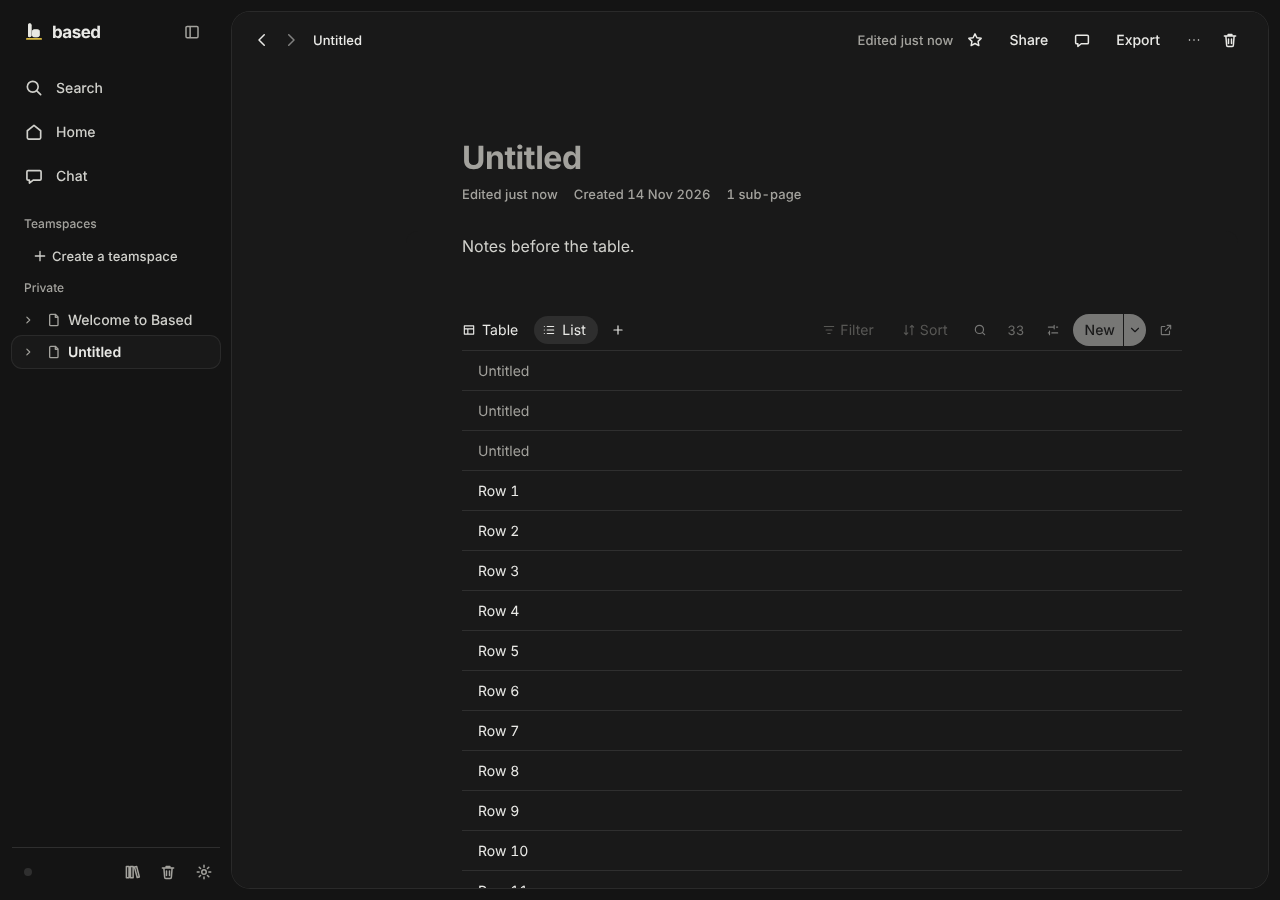
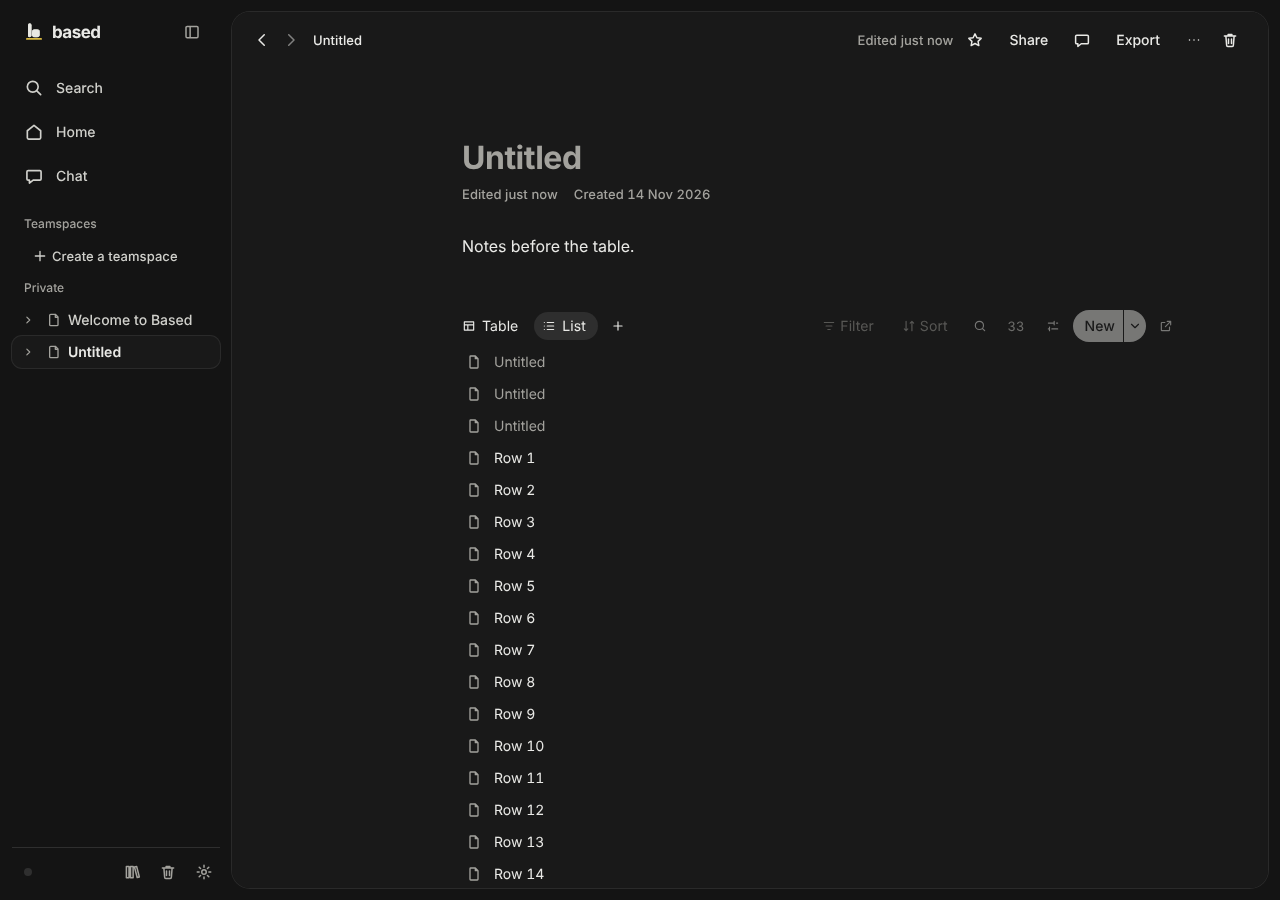
Liste ohne Datenbank-Gerüst: Titel ausblendbar, keine Tabellenlinien
- Neue Ansichts-Einstellung „Show database title“ (inline, je Ansicht; Feld
  `showTitle` am View, nur TS-Stack – Drift-Check nimmt es aus)
- Ohne Titel: Werkzeugleiste ohne Linie, unsichtbar bis Überfahren/Fokus
- Listen-Zeilen wie Notion: Seiten-Icon vor dem Namen, keine Trennlinien,
  weiche Fläche beim Überfahren, 32 px hoch; „+ New“ auf derselben Kante
- Inline-Liste: keine Linie unter der Werkzeugleiste, Namen bündig mit Text
- e2e: database-inline „Inline-Liste: Titel ausblenden, keine Tabellenlinien“
- Screens: web-db-inline-list-*, web-db-inline-list-untitled-*

Claude-Session: https://claude.ai/code/session_01F33L4nvPbvFV4dgYD1DcRc

diff --git a/packages/database-ui/src/styles.css b/packages/database-ui/src/styles.css
@@ -247,13 +247,15 @@
 /* Liste und Galerie */
 .dbui-vlist { position: relative; margin: 0 var(--space-6); }
 .dbui-vitem { position: absolute; top: 0; left: 0; width: 100%; }
+/* Liste wie Notion: eine Seite je Zeile, keine Tabellenlinien – nur eine weiche Fläche beim Überfahren. */
 .dbui-list-row {
-  position: relative; display: flex; align-items: center; gap: var(--space-3); min-height: var(--space-7); padding: 0 var(--space-2) 0 var(--space-4);
-  border-bottom: 1px solid var(--line);
+  position: relative; display: flex; align-items: center; gap: var(--space-3); min-height: var(--space-6); padding: 0 var(--space-2) 0 var(--space-3);
+  border-radius: var(--radius-sm);
 }
 .dbui-list-row:hover { background: var(--surface-soft); }
 .dbui-list-row .dbui-agent-bar { left: 0; }
-.dbui-list-title { flex: 1; min-width: 0; border: 0; background: transparent; padding: 0; text-align: left; display: flex; font-weight: var(--type-meta-weight); }
+.dbui-list-title { flex: 1; min-width: 0; border: 0; background: transparent; padding: 0; text-align: left; display: flex; align-items: center; gap: var(--space-2); font-weight: var(--type-meta-weight); }
+.dbui-list-icon { flex: none; display: inline-flex; align-items: center; justify-content: center; width: var(--space-5); color: var(--muted); line-height: 1; }
 .dbui-list-props { display: flex; gap: var(--space-3); align-items: center; min-width: 0; overflow: hidden; color: var(--ink-2); font-size: var(--type-description-size); }
 .dbui-list-prop { display: inline-flex; max-width: calc(var(--space-8) * 3); overflow: hidden; }
 .dbui-gallery-wrap { flex: 1; min-height: 0; display: flex; flex-direction: column; }
@@ -668,3 +670,13 @@ body.dbui-dragging, body.dbui-dragging * { cursor: grabbing !important; user-sel
 /* Fußzeile überall ohne Trennlinie (Entscheidung 14. 11.): sonst stand unter jeder Tabelle ein leerer, umrandeter Streifen. */
 .dbui-tfoot { border-top: 0; }
 .dbui-root.inline .dbui-vrow.group { background: transparent; }
+
+/* Inline-Liste: keine Linie unter der Werkzeugleiste, Zeilen hängen ihren Innenabstand links heraus (Namen bündig mit
+   dem Seitentext); „+ New“ steht auf derselben Kante wie die Namen. */
+.dbui-root.inline:has(> .dbui-body[data-view-type="list"]) .dbui-toolbar { border-bottom: 0; }
+.dbui-root.inline .dbui-body[data-view-type="list"] .dbui-vlist { margin-left: calc(-1 * var(--space-3)); }
+.dbui-body[data-view-type="list"] .dbui-new-row { height: var(--space-6); gap: var(--space-3); padding-left: calc(var(--space-3) + var(--space-1)); border-radius: var(--radius-sm); }
+/* Titel ausgeblendet („Show database title“ aus): auch die Werkzeugleiste tritt zurück – ohne Linie, unsichtbar bis zum
+   Überfahren oder Fokus. Ihr Platz bleibt, damit beim Überfahren nichts springt. */
+.dbui-root.inline .dbui-head.untitled .dbui-toolbar { border-bottom: 0; opacity: 0; transition: opacity var(--duration-fast) var(--ease-out); }
+.dbui-root.inline:is(:hover, :focus-within) .dbui-head.untitled .dbui-toolbar { opacity: 1; }

diff --git a/packages/database-ui/src/layouts/List.tsx b/packages/database-ui/src/layouts/List.tsx
@@ -11,16 +11,23 @@ import { hrefOf, optionTone, storedFiles } from "../logic/values.js";
 import { Icon, type Anchor } from "../ui.js";
 import { CardBody, cardProperties, EmptyState, GroupHeader, groupProperty, RowMenu, useAddRow } from "./shared.js";
 
-const LIST_ROW = 40;
+const LIST_ROW = 32;
 const GROUP_ROW = 44;
 
-const ListRow = memo(function ListRow({ row, props, agent, onMenu }: { row: Block; props: PropertySchema[]; agent: boolean; onMenu: (row: Block, el: HTMLElement) => void }) {
+/** Liste wie Notion: Seiten-Icon (Emoji oder Seite) vor dem Namen, keine Tabellenlinien. */
+function RowIcon({ row }: { row: Block }) {
+  const icon = row.props?.icon;
+  const emoji = typeof icon === "string" ? icon : (icon as { emoji?: string } | undefined)?.emoji;
+  return <span className="dbui-list-icon" aria-hidden>{emoji ?? <Icon name="file" size={16} />}</span>;
+}
+
+const ListRow = memo(function ListRow({ row, props, agent, icons, onMenu }: { row: Block; props: PropertySchema[]; agent: boolean; icons: boolean; onMenu: (row: Block, el: HTMLElement) => void }) {
   const { db, onOpenPage } = useDB();
   const title = propertyOf(db, "title") ?? db.properties.find((p) => p.type === "title")!;
   return (
     <div className="dbui-list-row" role="listitem" data-row-id={row.id} onContextMenu={(e) => { e.preventDefault(); onMenu(row, e.currentTarget); }}>
       {agent ? <span className="dbui-agent-bar" role="img" aria-label="Changed by Based" /> : <span className="dbui-agent-bar off" aria-hidden />}
-      <button type="button" className="dbui-list-title" onClick={() => onOpenPage?.(row.id)}><CellView row={row} prop={title} /></button>
+      <button type="button" className="dbui-list-title" onClick={() => onOpenPage?.(row.id)}>{icons && <RowIcon row={row} />}<CellView row={row} prop={title} /></button>
       <span className="dbui-list-props">
         {props.map((p) => <span key={p.id} className="dbui-list-prop" title={p.name}><CellView row={row} prop={p} compact /></span>)}
       </span>
@@ -104,7 +111,7 @@ export function ListLayout({ view, result }: { view: DatabaseView; result: Query
       <Virtual items={items} label={view.name} testID="list-scroll" estimate={(it) => (it.kind === "group" ? GROUP_ROW : LIST_ROW)} render={(it) => {
         if (it.kind === "group") return <GroupHeader group={it.group} prop={gp} collapsed={it.collapsed} onToggle={() => toggle(it.group.id)} />;
         if (it.kind === "new") return <button type="button" className="dbui-new-row" onClick={() => addRow(it.groupID)}><Icon name="plus" size={14} />New</button>;
-        if (it.kind === "row") return <ListRow row={it.row} props={props} agent={isAgentEdit(it.row)} onMenu={onMenu} />;
+        if (it.kind === "row") return <ListRow row={it.row} props={props} agent={isAgentEdit(it.row)} icons={view.showIcons !== false} onMenu={onMenu} />;
         return null;
       }} />
       {result.rows.length === 0 && <EmptyState>No pages.</EmptyState>}

diff --git a/packages/database-ui/src/menus/ViewSettings.tsx b/packages/database-ui/src/menus/ViewSettings.tsx
@@ -1,5 +1,6 @@
 // BSD-155: Einstellungen einer Ansicht (Swift ViewSettingsView): Name, Layout, Properties, Gruppierung,
 // Karten, Diagramm, Dashboard-Widgets, Sperre, Duplizieren/Löschen. Alles über Store-Transaktionen.
+import { useContext } from "react";
 import { CHART_THEMES } from "../layouts/Chart.js";
 import {
   CALENDAR_PROPERTY_TYPES, DASHBOARD_COLUMNS, PROPERTY_TYPE_LABELS, TIMELINE_SCALES, calendarDateProperty, addDashboardWidget, deleteView, duplicateView, movePropertyInView, removeDashboardWidget,
@@ -7,7 +8,7 @@ import {
   setViewType, updateChart, updateView, visiblePropertyIDs, valueCase, WIDGET_TYPES,
   type DatabaseView,
 } from "@based/core";
-import { useDB } from "../context.js";
+import { InlineView, useDB } from "../context.js";
 import { openModeOf } from "../logic/peek.js";
 import { MAP_HEIGHTS } from "../map/geo.js";
 import { mapProperty } from "../layouts/Map.js";
@@ -276,6 +277,7 @@ export function ViewSettings({ view, anchor, onClose, groups, onDeleted }: {
 }) {
   const { store, db } = useDB();
   const isWidget = view.widgetOf !== undefined;
+  const inline = useContext(InlineView) !== null && !isWidget;
   return (
     <Popover anchor={anchor} onClose={onClose} className="dbui-view-settings" label="View settings">
       <label className="dbui-field"><span className="dbui-field-label">Name</span>
@@ -300,6 +302,7 @@ export function ViewSettings({ view, anchor, onClose, groups, onDeleted }: {
           {(view.type === "board" || view.type === "gallery") && <CardSection view={view} />}
           <section className="dbui-config-section" aria-label="Display">
             {view.type === "table" && <Toggle label="Wrap all content" checked={view.wrapCells === true} onChange={(on) => updateView(store, view.id, (v) => { if (on) v.wrapCells = true; else delete v.wrapCells; }, "Wrap cells")} />}
+            {inline && <Toggle label="Show database title" checked={view.showTitle !== false} onChange={(on) => updateView(store, view.id, (v) => { if (on) delete v.showTitle; else v.showTitle = false; }, "Database title")} />}
             <Toggle label="Show page icon" checked={view.showIcons !== false} onChange={(on) => updateView(store, view.id, (v) => { if (on) delete v.showIcons; else v.showIcons = false; }, "Icons")} />
             <label className="dbui-field"><span className="dbui-field-label">Open pages in</span>
               <select className="dbui-select" aria-label="Open pages in" value={openModeOf(view)} onChange={(e) => updateView(store, view.id, (v) => { v.openIn = e.target.value; }, "Open pages in")}>

diff --git a/apps/web/e2e/database-inline.spec.ts b/apps/web/e2e/database-inline.spec.ts
@@ -123,3 +123,42 @@ for (const type of ["list", "gallery", "board"] as const) {
     await expect(items).toHaveCount(33);
   });
 }
+
+// Inline-Liste ohne Datenbank-Gerüst (14. 11.): Titel je Ansicht ausblendbar („Show database title“), Zeilen ohne
+// Tabellenlinien mit Seiten-Icon, Werkzeugleiste ohne Linie und erst beim Überfahren sichtbar.
+test("Inline-Liste: Titel ausblenden, keine Tabellenlinien", async ({ page, browserName }) => {
+  await ready(page);
+  const { db } = await setup(page);
+  await db.hover();
+  await db.getByRole("button", { name: "View settings" }).click();
+  const settings = page.locator(".dbui-view-settings");
+  await settings.getByRole("radio", { name: "List" }).click();
+  await expect(db.locator('.dbui-body[data-view-type="list"]')).toBeVisible();
+  await settings.getByText("Show database title").click();
+  await page.keyboard.press("Escape");
+  await expect(db.getByRole("textbox", { name: "Database title" })).toHaveCount(0);
+  const row = db.locator(".dbui-list-row").first();
+  await expect(row).toBeVisible();
+  await expect(row).toHaveCSS("border-bottom-width", "0px");
+  await expect(row.locator(".dbui-list-icon")).toBeVisible();
+  await page.getByText("Notes before the table.").click();
+  await page.mouse.move(10, 450);
+  await expect(db.locator(".dbui-toolbar")).toHaveCSS("opacity", "0");
+  await expect(db.locator(".dbui-toolbar")).toHaveCSS("border-bottom-width", "0px");
+  if (SHOTS && browserName === "chromium") {
+    for (const theme of ["light", "dark"] as const) {
+      if ((await page.evaluate(() => document.documentElement.dataset.theme)) !== theme) await page.keyboard.press("ControlOrMeta+Shift+l");
+      await expect.poll(() => page.evaluate(() => document.documentElement.dataset.theme)).toBe(theme);
+      await page.waitForTimeout(400);
+      await page.screenshot({ path: `../../docs/design/screens/web-db-inline-list-untitled-${theme}.png` });
+    }
+    await page.keyboard.press("ControlOrMeta+Shift+l");
+  }
+  await db.hover();
+  await expect(db.locator(".dbui-toolbar")).toHaveCSS("opacity", "1");
+  // Wieder einschalten: Titel zurück
+  await db.getByRole("button", { name: "View settings" }).click();
+  await settings.getByText("Show database title").click();
+  await page.keyboard.press("Escape");
+  await expect(db.getByRole("textbox", { name: "Database title" })).toBeVisible();
+});

diff --git a/packages/database-ui/src/DatabaseView.tsx b/packages/database-ui/src/DatabaseView.tsx
@@ -346,6 +346,7 @@ function Inner({ blockID, viewID, onViewChange, showTitle, peek: peekOptions, in
   const inner = useMemo(() => (peekOptions ? { ...ctx, onOpenPage: openRow } : ctx), [ctx, peekOptions, openRow]);
   const onOpenPage = inner.onOpenPage;
   if (!active) return <div className="dbui-empty">This database has no views.</div>;
+  const titled = showTitle && !(inline && active.showTitle === false);
   const peekView = peek ? views.find((v) => v.id === peek.viewID) ?? active : undefined;
   const onNew = (template?: string) => {
     const values = newRowValues(db, active, groupProperty(db, active), null);
@@ -361,8 +362,9 @@ function Inner({ blockID, viewID, onViewChange, showTitle, peek: peekOptions, in
   };
   return (
     <DBContext.Provider value={inner}>
-      <div className="dbui-head">
-        {showTitle && <Title />}
+      {/* Inline lässt sich der Titel je Ansicht ausblenden (wie Notions „Show database title“); dann nur noch die Liste. */}
+      <div className={"dbui-head" + (titled ? "" : " untitled")}>
+        {titled && <Title />}
         <div className="dbui-toolbar">
           <Tabs views={views} active={active} onSelect={select} blockID={blockID} inline={inline} onEdit={setEditView} />
           <Toolbar view={active} search={search} setSearch={setSearch} onNew={onNew} settingsRequest={editView} onSettingsShown={clearEditView} />

diff --git a/packages/core/src/model/schema.ts b/packages/core/src/model/schema.ts
@@ -270,6 +270,8 @@ export const databaseView = z.looseObject({
   properties: z.array(viewProperty).optional(), calculations: z.record(z.string(), calculationType).optional(),
   datePropertyID: z.string().optional(), endDatePropertyID: z.string().optional(), cardCover: cardCover.optional(),
   cardSize: cardSize.optional(), wrapCells: z.boolean().optional(), openIn: openMode.optional(), showIcons: z.boolean().optional(),
+  /** Titel der Datenbank inline zeigen (fehlt = ja); nur der TS-Stack kennt das Feld. */
+  showTitle: z.boolean().optional(),
   loadLimit: int.optional(), chart: chartConfig.optional(), mapPropertyID: z.string().optional(), mapHeight: z.string().optional(),
   dashboard: dashboardConfig.optional(), widgetOf: recordID.optional(), sortKey: z.string(),
   createdAt: swiftDate, updatedAt: swiftDate, stamp,

diff --git a/packages/core/test/records.test.ts b/packages/core/test/records.test.ts
@@ -38,7 +38,10 @@ describe("Records aus Swift", () => {
 
 describe("Drift-Check gegen Swift", () => {
   it.each(Object.keys(swift.keys))("bekannte Schlüssel von %s", (name) => {
-    expect([...KNOWN_KEYS[name as keyof typeof KNOWN_KEYS]].sort()).toEqual(swift.keys[name]);
+    // Felder, die nur der TS-Stack kennt (Swift ist eingefroren und behält sie als unbekannte Felder).
+    const tsOnly: Record<string, string[]> = { DatabaseView: ["showTitle"] };
+    const ts = [...KNOWN_KEYS[name as keyof typeof KNOWN_KEYS]].filter((k) => !tsOnly[name]?.includes(k));
+    expect(ts.sort()).toEqual(swift.keys[name]);
   });
   it("es gibt keinen Swift-Typ ohne TS-Gegenstück", () => {
     expect(Object.keys(KNOWN_KEYS).sort()).toEqual(Object.keys(swift.keys).sort());
